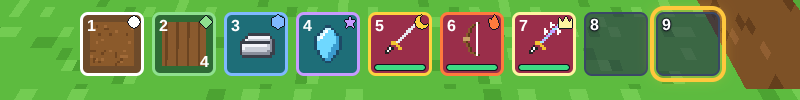
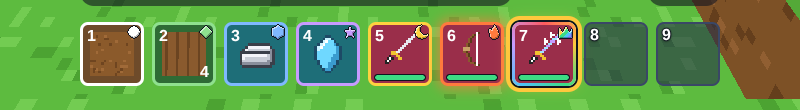
RARITY-7: 案 A との差を埋める（にじのふち・うごき・宝石の明暗・7 段目の柱・えらぶわくの区別）
Claude-Session: https://claude.ai/code/session_01Li1Rak4DUBf7uM8odAfDuh

diff --git a/src/ui/hotbar.css b/src/ui/hotbar.css
@@ -165,11 +165,87 @@
   display: none;
 }
 
-/* えらんでいる: ふちは めずらしさのまま、外がわに アクセントのわく 4px ＋ 光 */
+/*
+ * えらんでいる: ふちは めずらしさのまま、外がわに アクセントのわく 4px ＋ 光。
+ * 5 段目のきんのふち（--rk-rarity-4）と 色が近いので、わくとの すきま 2px を くらい色（--rk-bg-900）で うめて、
+ * 「ふち」と「えらぶわく」が 1 本につながって 見えないようにする（RARITY-7）。
+ */
 .slot[data-selected='true'] {
   outline: var(--rk-bw-sel) solid var(--rk-accent);
   outline-offset: 2px;
-  box-shadow: var(--rk-glow);
+  box-shadow:
+    0 0 0 2px var(--rk-bg-900),
+    var(--rk-glow);
+}
+
+/*
+ * 5〜7 段目のうごき（RARITY-7 案 A）。どれも ゆっくり・強い点滅なし（1 秒に 1 回より おそい）。
+ * 5 段 = 宝石に 小さな きらり（3 秒に 1 回）、6 段 = ふちの まわりが ふんわり光る（2.5 秒）、
+ * 7 段 = ふちが にじ色に ゆっくり まわる（8 秒で 1 周）。「うごきを へらす」では 止める。
+ */
+.slot[data-rarity='4'] .slot-gem {
+  animation: gem-twinkle 3s ease-in-out infinite;
+}
+@keyframes gem-twinkle {
+  0%,
+  82%,
+  100% {
+    filter: none;
+    transform: none;
+  }
+  91% {
+    filter: brightness(1.7);
+    transform: scale(1.18);
+  }
+}
+.slot[data-rarity='5']::before {
+  content: '';
+  position: absolute;
+  inset: calc(-1 * var(--rk-bw-rarity));
+  border-radius: var(--rk-r-s);
+  box-shadow: 0 0 0 0 transparent;
+  pointer-events: none;
+  animation: slot-breathe 2.5s ease-in-out infinite;
+}
+@keyframes slot-breathe {
+  0%,
+  100% {
+    box-shadow: 0 0 0 0 transparent;
+  }
+  50% {
+    box-shadow: 0 0 12px 3px color-mix(in srgb, var(--rk-rarity-5) 65%, transparent);
+  }
+}
+.slot[data-rarity='6']::before {
+  content: '';
+  position: absolute;
+  inset: calc(-1 * var(--rk-bw-rarity));
+  padding: var(--rk-bw-rarity);
+  box-sizing: border-box;
+  border-radius: var(--rk-r-s);
+  background: var(--rk-rarity-rainbow);
+  -webkit-mask:
+    linear-gradient(#000 0 0) content-box,
+    linear-gradient(#000 0 0);
+  -webkit-mask-composite: xor;
+  mask-composite: exclude;
+  pointer-events: none;
+  animation: rainbow-spin 8s linear infinite;
+}
+@keyframes rainbow-spin {
+  to {
+    --rk-rb-angle: 360deg;
+  }
+}
+@media (prefers-reduced-motion: reduce) {
+  .slot[data-rarity='4'] .slot-gem,
+  .slot[data-rarity='5']::before,
+  .slot[data-rarity='6']::before {
+    animation: none;
+  }
+  .slot[data-rarity='6']::before {
+    background: var(--rk-rarity-6); /* 止まったときの色 */
+  }
 }
 
 /*

diff --git a/src/ui/gemArt.ts b/src/ui/gemArt.ts
@@ -13,6 +13,8 @@ export const GEM_SHAPES: readonly GemShape[] = RARITY_TIERS.map((t) => t.gem);
 
 const hexRgba = (c: number): Rgba => [(c >> 16) & 255, (c >> 8) & 255, c & 255, 255];
 const FILL: readonly Rgba[] = RARITY_TIERS.map((t) => hexRgba(t.color));
+const RAINBOW: readonly Rgba[] = ['#ff5a5f', '#ffa040', '#ffd23f', '#3ddc84', '#4fc3f7', '#7f8cff', '#c79bff'].map((h) => hexRgba(parseInt(h.slice(1), 16)));
+const mix = (c: Rgba, to: number, k: number): Rgba => [Math.round(c[0] + (to - c[0]) * k), Math.round(c[1] + (to - c[1]) * k), Math.round(c[2] + (to - c[2]) * k), 255];
 const INK: Rgba = [0x10, 0x14, 0x1f, 255];
 const CLEAR: Rgba = [0, 0, 0, 0];
 const N = 16;
@@ -101,7 +103,13 @@ export function gemPixels(rarity: number): Rgba[] {
   const out: Rgba[] = [];
   for (let y = 0; y < N; y++) {
     for (let x = 0; x < N; x++) {
-      if (at(x, y)) out.push(FILL[idx]);
+      if (at(x, y)) {
+        // 案 A: 上・左が とぎれる ドットは 明るい 1 段、下・右は かげ 1 段。7 段目は にじ色のぬり
+        const base = idx === LAST ? RAINBOW[Math.min(RAINBOW.length - 1, Math.floor(((x + y) / 30) * RAINBOW.length))] : FILL[idx];
+        if (!at(x - 1, y - 1) || !at(x, y - 1)) out.push(mix(base, 255, 0.55));
+        else if (!at(x + 1, y + 1) || !at(x, y + 1)) out.push(mix(base, 0, 0.28));
+        else out.push(base);
+      }
       else if (at(x - 1, y) || at(x + 1, y) || at(x, y - 1) || at(x, y + 1)) out.push(INK);
       else out.push(CLEAR);
     }

diff --git a/src/fx/dropSparkle.ts b/src/fx/dropSparkle.ts
@@ -22,11 +22,11 @@ export const SPARKLE: Record<Rarity, SparkleSpec> = {
   common: { rate: 2, width: 0.12, opacity: 0.3, pulse: false, rainbow: false, stars: false },
   uncommon: { rate: 4, width: 0.12, opacity: 0.3, pulse: false, rainbow: false, stars: false },
   rare: { rate: 7, width: 0.18, opacity: 0.42, pulse: true, rainbow: false, stars: false },
-  superRare: { rate: 12, width: 0.28, opacity: 0.42, pulse: true, rainbow: true, stars: true },
-  // 5〜7 段目（RARITY-7 §4.5）: つぶ・はば・こさ・ゆれは 4 段目と同じ。色は段の色のまま（にじにしない。仮）
+  superRare: { rate: 12, width: 0.28, opacity: 0.42, pulse: true, rainbow: false, stars: true },
+  // 5〜7 段目（RARITY-7 §4.5）: つぶ・はば・こさ・ゆれは 4 段目と同じ。色は 案 A の段の色。にじ色に流れるのは 7 段目だけ（今の 4 段目のにじは 7 段目に うつした）
   epic: { rate: 12, width: 0.28, opacity: 0.42, pulse: true, rainbow: false, stars: true },
   mythic: { rate: 12, width: 0.28, opacity: 0.42, pulse: true, rainbow: false, stars: true },
-  legendary: { rate: 12, width: 0.28, opacity: 0.42, pulse: true, rainbow: false, stars: true },
+  legendary: { rate: 12, width: 0.28, opacity: 0.42, pulse: true, rainbow: true, stars: true },
 };
 
 export const SPARKLE_CFG = {

diff --git a/src/fx/bagVisuals.ts b/src/fx/bagVisuals.ts
@@ -183,8 +183,8 @@ export class BagVisuals {
           const sc = 0.4 + 0.6 * Math.min(1, v.restT / RING_GROW_SECONDS);
           this.mtx.makeScale(sc, 1, sc).setPosition(bag.position.x, bag.position.y + 0.03, bag.position.z);
           this.rings.setMatrixAt(n, this.mtx);
-          // 4 段目の輪は にじ色にゆっくり流れる（ほかは 段の色）
-          if (rar === 'superRare') this.ringColor.setHSL(rainbowHue(this.time, 0.3), 0.7, 0.7);
+          // 7 段目の輪は にじ色にゆっくり流れる（ほかは 段の色）
+          if (rar === 'legendary') this.ringColor.setHSL(rainbowHue(this.time, 0.3), 0.7, 0.7);
           else this.ringColor.setHex(RARITY_COLOR[rar]);
           this.rings.setColorAt(n, this.ringColor);
           this.ringN = n + 1;
@@ -244,7 +244,7 @@ export class BagVisuals {
     }
     // 柱の濃さ（めずらしい: ゆっくりゆれる）・とても めずらしい: にじ色がゆっくり流れる
     for (const r of RARITY_ORDER) PILLAR_MATS[r].opacity = pillarOpacity(r, this.time);
-    PILLAR_MATS.superRare.color.setHSL(rainbowHue(this.time), 0.7, 0.7);
+    PILLAR_MATS.legendary.color.setHSL(rainbowHue(this.time), 0.7, 0.7);
     this.sparkle.addFlashes();
     this.sparkle.end();
     if (landed >= 0) this.onLand?.(RARITY_ORDER[landed]!);

diff --git a/src/fx/dropSparkle.test.ts b/src/fx/dropSparkle.test.ts
@@ -9,11 +9,12 @@ describe('dropSparkle', () => {
     expect(SPARKLE.superRare.rate).toBe(12);
     expect(sparkleCount('superRare')).toBe(12 * SPARKLE_CFG.life);
   });
-  it('むらさきは 太く・星形・にじ色。あおは ゆれる。ゆれは 1 秒に 3 回未満', () => {
+  it('むらさきは 太く・星形（にじ色は 7 段目に うつした）。あおは ゆれる。ゆれは 1 秒に 3 回未満', () => {
     expect(SPARKLE.superRare.width).toBeGreaterThan(SPARKLE.rare.width);
     expect(SPARKLE.rare.width).toBeGreaterThan(SPARKLE.common.width);
-    expect(SPARKLE.superRare.stars && SPARKLE.superRare.rainbow).toBe(true);
-    expect(SPARKLE.common.rainbow || SPARKLE.rare.rainbow).toBe(false);
+    expect(SPARKLE.superRare.stars).toBe(true);
+    expect(SPARKLE.legendary.stars && SPARKLE.legendary.rainbow).toBe(true);
+    expect(SPARKLE.common.rainbow || SPARKLE.rare.rainbow || SPARKLE.superRare.rainbow || SPARKLE.epic.rainbow || SPARKLE.mythic.rainbow).toBe(false);
     expect(SPARKLE_CFG.pulseHz).toBeLessThan(3);
     expect(pillarOpacity('common', 0.2)).toBe(pillarOpacity('common', 0.7));
     expect(pillarOpacity('rare', 0.25)).not.toBeCloseTo(pillarOpacity('rare', 0.75));

diff --git a/src/fx/combatFx.test.ts b/src/fx/combatFx.test.ts
@@ -89,9 +89,14 @@ describe('BagVisuals', () => {
     expect((pillar().material as THREE.MeshBasicMaterial).color.getHex()).not.toBe(col);
     expect(pillar().scale.x).toBeGreaterThan(wRare);
     expect(drawn(1)).toBe(sparkleCount('superRare'));
+    // むらさきの柱は 色が かわらない。にじ色に流れるのは 7 段目（legendary）だけ
     const h0 = (pillar().material as THREE.MeshBasicMaterial).color.getHex();
     for (let i = 0; i < 120; i++) v.update(1 / 60, [it1(1, 1, 1, 'dirt', 1, 'superRare')]);
-    expect((pillar().material as THREE.MeshBasicMaterial).color.getHex()).not.toBe(h0);
+    expect((pillar().material as THREE.MeshBasicMaterial).color.getHex()).toBe(h0);
+    v.update(1 / 60, [it1(1, 1, 1, 'dirt', 1, 'legendary' as never)]);
+    const l0 = (pillar().material as THREE.MeshBasicMaterial).color.getHex();
+    for (let i = 0; i < 120; i++) v.update(1 / 60, [it1(1, 1, 1, 'dirt', 1, 'legendary' as never)]);
+    expect((pillar().material as THREE.MeshBasicMaterial).color.getHex()).not.toBe(l0);
     v.update(1 / 60, [it1(1, 1, 1, 'dirt', 1, 'common')]);
     expect(drawn(1)).toBe(0);
     expect(drawn(0)).toBe(sparkleCount('common'));

diff --git a/src/ui/theme/tokens.css b/src/ui/theme/tokens.css
@@ -1,3 +1,8 @@
+@property --rk-rb-angle {
+  syntax: '<angle>';
+  inherits: false;
+  initial-value: 0deg;
+}
 /*
  * りっくんワールド UI の土台（M6 S1。仕様 docs/design/M6-ui-achievements.md §3.5）
  * 色・大きさ・余白・角・影・動きは、ここの変数だけを使う。ほかのファイルに数を じかに書かない。
@@ -63,6 +68,8 @@
   --rk-accent-grad: linear-gradient(180deg, var(--rk-accent), var(--rk-accent-2));
   --rk-xp-grad: linear-gradient(90deg, var(--rk-xp), var(--rk-xp-2));
   --rk-rarity: var(--rk-rarity-0);
+  /* 7 段目のふち: にじ色（8 秒で 1 周。--rk-rb-angle を動かす） */
+  --rk-rarity-rainbow: conic-gradient(from var(--rk-rb-angle), #ff5a5f, #ffc83d, #3ddc84, #4fc3f7, #c79bff, #ff5a5f);
 
   /* (3) 文字（表示・タイトル・見出し・本文・小） */
   --rk-fs-display: clamp(40.8px, 3.75vw, 72px);
